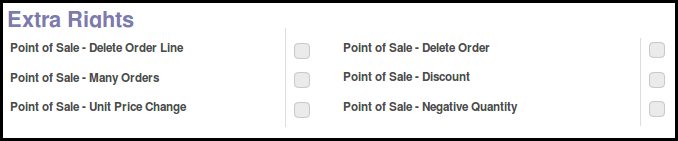
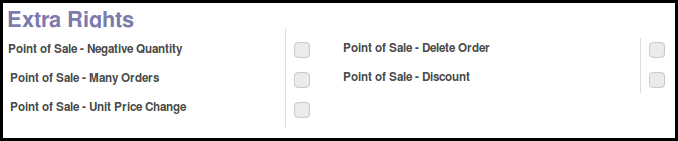
[FIX] remove useless feature;[FIX] bug on multi order check

diff --git a/pos_access_right/static/src/js/pos_access_right.js b/pos_access_right/static/src/js/pos_access_right.js
@@ -39,12 +39,6 @@ point_of_sale.gui
         else{
             $(".mode-button[data-mode='price']").addClass('pos-disabled-mode');
         }
-        if (user.groups_id.indexOf(this.pos.config.group_pos_delete_order_line[0]) != -1){
-            $('.numpad-backspace').removeClass('pos-disabled-mode');
-        }
-        else{
-            $('.numpad-backspace').addClass('pos-disabled-mode');
-        }
     };
 
 
@@ -58,7 +52,6 @@ point_of_sale.models
     models.load_fields("pos.config", "group_pos_change_unit_price");
     models.load_fields("pos.config", "group_pos_multi_order");
     models.load_fields("pos.config", "group_pos_delete_order");
-    models.load_fields("pos.config", "group_pos_delete_order_line");
 
     // Overload 'set_cashier' function to display correctly
     // unauthorized function after cashier changed
@@ -115,19 +108,6 @@ screens.NumpadWidget
             if (this.pos.get_cashier().groups_id.indexOf(this.pos.config.group_pos_negative_qty[0]) == -1) {
                 this.gui.show_popup('error',{
                     'title': _t('Negative Quantity - Unauthorized function'),
-                    'body':  _t('Please ask your manager to do it.'),
-                });
-            }
-            else {
-                return this._super();
-            }
-        },
-
-        // block '+/-' button if user doesn't belong to the correct group
-        clickDeleteLastChar: function() {
-            if (this.pos.get_cashier().groups_id.indexOf(this.pos.config.group_pos_delete_order_line[0]) == -1) {
-                this.gui.show_popup('error',{
-                    'title': _t('Delete Order Line - Unauthorized function'),
                     'body':  _t('Please ask your manager to do it.'),
                 });
             }

diff --git a/pos_access_right/models/pos_config.py b/pos_access_right/models/pos_config.py
@@ -44,13 +44,6 @@ class PosConfig(models.Model):
         help="This field is there to pass the id of the 'PoS - Delete Order'"
         " Group to the Point of Sale Frontend.")
 
-    group_pos_delete_order_line = fields.Many2one(
-        comodel_name='res.groups',
-        compute='_compute_group_pos_delete_order_line',
-        string='Point of Sale - Delete Order Line',
-        help="This field is there to pass the id of the 'PoS - Delete Order"
-        " Line' Group to the Point of Sale Frontend.")
-
     @api.multi
     def _compute_group_pos_negative_qty(self):
         for config in self:
@@ -72,17 +65,11 @@ class PosConfig(models.Model):
     @api.multi
     def _compute_group_pos_multi_order(self):
         for config in self:
-            self.group_pos_discount = \
+            self.group_pos_multi_order = \
                 self.env.ref('pos_access_right.group_pos_multi_order')
 
     @api.multi
     def _compute_group_pos_delete_order(self):
         for config in self:
-            self.group_pos_discount = \
+            self.group_pos_delete_order = \
                 self.env.ref('pos_access_right.group_pos_delete_order')
-
-    @api.multi
-    def _compute_group_pos_delete_order_line(self):
-        for config in self:
-            self.group_pos_discount = \
-                self.env.ref('pos_access_right.group_pos_delete_order_line')

diff --git a/pos_access_right/README.rst b/pos_access_right/README.rst
@@ -26,8 +26,6 @@ This module will add the following groups to Odoo:
 
 * PoS - Delete Order: The cashier can not delete a full order;
 
-* PoS - Delete Order Line: The cashier can not delete an order line;
-
 .. image:: /pos_access_right/static/description/new_groups.png
 
 If a user doesn't belong to a group, he can not use the according feature.
